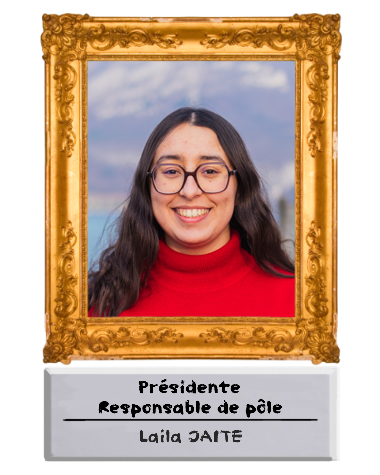
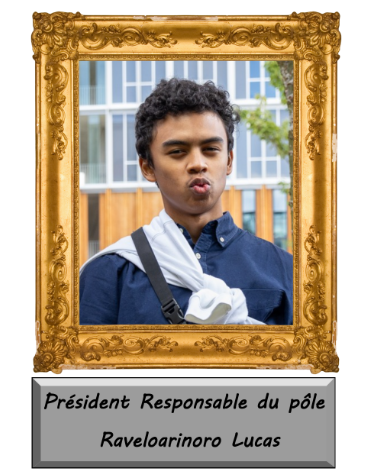
Carrousel update

diff --git a/informations.html b/informations.html
@@ -22,6 +22,7 @@
                 <div class="navlinks-container">
                     <a href="#" aria-current="page">L'association</a>
                     <a href="galerie.html">Galerie d'art</a>
+                    <a href="pixtober.html">Le Pix'Tober</a>
                     <a href="pixshot.html">Projet Pix'Shot</a>
                 </div>
                 <label for="check"> <img class="menu" src="img/menu.png" alt="menu"></label>
@@ -55,23 +56,24 @@
         </div>
 
         <div class ="wrapper">
-            <article class="intro"><h2>Membres du bureau 2023</h2>
+            <article class="intro"><h2>Membres du bureau 2025</h2>
                 <p style="margin: 25px 0px 25px 0px;">Puisque Pix'Art est un pôle intégré au Bureau des Arts, il ne possède pas de président à proprement parler. Le pôle est tout de même constitué d'une structure bien établie qui garantit la gestion efficace de Pix'Art :</p>
             </article>
             <img class ="bureau" src="img/bureau1.png" alt="Membres du bureau">
             <br>
             <img class ="bureau" src="img/bureau2.png" alt="Membres du bureau">
-            <img class ="bureau" src="img/bureau3.png" alt="Membres du bureau">
-            <img class ="bureau" src="img/bureau4.png" alt="Membres du bureau">
-            <img class ="bureau" src="img/bureau5.png" alt="Membres du bureau">
+            <a href="https://www.deviantart.com/amywolfhardt/art/Hornet-Silksong-865912068" target ='blank'>
+                <img class ="bureau" src="img/bureau3.png" alt="Membres du bureau">
+            </a>
         </div>
 
         <div class="wrapper">
             <article class="intro">
                 <h2>Les évènements de Pix'Art</h2>
                 <img style="margin: 20px 0px 10px 0px;" src="img/events/pixskribbl.png" width = "60%" height="60%" alt="PixSkribbl" >
-                <img style="margin: 20px 0px 10px 0px;" src="img/events/pixtober.png" width = "60%" height="60%" alt="PixTober" >
+                <img style="margin: 20px 0px 10px 0px;" src="img/Pixtober25.png" width = "60%" height="60%" alt="Pixtober" >
                 <img style="margin: 20px 0px 10px 0px;" src="img/events/pixglassing.png" width = "60%" height="60%" alt="PixGlassing" >
+                <img style="margin: 20px 0px 10px 0px;" src="img/events/eventail.jpg" width = "60%" height="60%" alt="Peinture sur éventail" >
             </article>
         </div>
 
@@ -88,7 +90,7 @@
             <a href="https://www.linkedin.com/company/pixart-ensea" target="_blank"><img class="imgrs" src="img/ln.png" alt="Linkedin logo"></a>
             <a href="mailto:pixart@ensea.fr" target ="_blank"><img class="imgrs" src="img/ct.png" alt="Contact logo"></a>
             <hr class="footer2">
-            <p class="footer2">Copyright © Pix'Art ENSEA 2023 | Ousmane THIONGANE | Tous droits réservés.</p>
+            <p class="footer2">Copyright © Pix'Art ENSEA 2025 | Ousmane THIONGANE | Tous droits réservés.</p>
         </footer>
 
     </body>

diff --git a/pixtober.html b/pixtober.html
@@ -22,25 +22,33 @@
                 <div class="navlinks-container">
                     <a href="informations.html" aria-current="page">L'association</a>
                     <a href="galerie.html">Galerie d'art</a>
+                    <a href="#">Le Pix'Tober</a>
                     <a href="pixshot.html">Projet Pix'Shot</a>
-                    <a href="pixtober.html">Le Pix'Tober</a>
                 </div>
                 <label for="check"> <img class="menu" src="img/menu.png" alt="menu"></label>
             </div>
         </nav>
-    
+
+        
         <img class="img-banner" src="img/banner.png" alt="Pix'Art banner">
         <img class="img-banner2" src="img/banner2.png" alt="Pix'Art mobile banner" width="100%" height="100%">
-
+    
+        
         <div class="wrapper">
             <article class="intro">
-                <h2 class="pixshottitle">Projet animation</h2>
-                <video width="80%" height="80%" controls>
-                    <source src="video/video.mp4" type="video/mp4">
-                  Your browser does not support the video tag.
-                </video>
+                <img style="margin: 20px 0px 10px 0px;" src="img/pixtober.png" width = "50%" height="50%" alt="Pixtober" >
+                <p>Le Pix'Tober est un défi artistique qui se déroule chaque année en octobre. Le principe est simple : chaque semaine sera reliée à un thème. Vous êtes tous invités à réaliser une œuvre en noir et blanc, physique ou numérique, en rapport avec le thème. C’est l’occasion idéale pour apprendre à dessiner, ou s’entraîner pour progresser !
+                
+                <p>
+                    Voici le thème du Pix'Tober 2025 :
+                    
+                </p>
+                <p><img src="img/Pixtober25.png" alt="Thème Pixtober 2025" width="75%" height="75%">
+                    <img src="img/Pixtober25en.png" alt="Thème Pixtober 2025 en anglais" width= "75%" height="75%"></p>
+                
+                <p>Partagez vos œuvres avec le hashtag #pixtober2025, ou envoyez les nous via nos réseaux ou en main propre pour que nous les partageons tout au long du mois. Que vous soyez un artiste confirmé ou un novice curieux, le Pix'Tober est une aventure artistique à ne pas manquer ! Rejoignez-nous et laissez libre cours à votre imagination !</p>
+            </article>
         </div>
-
 
         <footer class="footer">
             <a href="https://www.instagram.com/pixart.ensea/" target="_blank"><img class="imgrs" src="img/ig.png" alt="Instagram logo"></a>

diff --git a/galerie.html b/galerie.html
@@ -22,6 +22,7 @@
                 <div class="navlinks-container">
                     <a href="informations.html" aria-current="page">L'association</a>
                     <a href="#">Galerie d'art</a>
+                    <a href="pixtober.html">Le Pix'Tober</a>
                     <a href="pixshot.html">Projet Pix'Shot</a>
                 </div>
                 <label for="check"> <img class="menu" src="img/menu.png" alt="menu"></label>
@@ -35,9 +36,44 @@
             <article class="intro">
                 <h2 style="padding-bottom: 50px;">Galerie d'Art</h2>
                 <p style="padding-bottom: 40px;">Pix'Tip : Cliquez sur une œuvre pour la voir dans son intégralité !</p>
-                
-            </article>
+                <h2 style="padding-bottom: 40px;">Œuvres à la une</h2>
         </div>
+
+        <div class="carousel-container">
+            <div class="carousel-track">
+                <script>
+                    document.addEventListener("DOMContentLoaded", function () {
+
+                        const galleryItems = Array.from(document.querySelectorAll(".image-gallery li a img"));
+                        const carouselTrack = document.querySelector(".carousel-track");
+
+                        const shuffled = galleryItems.sort(() => 0.5 - Math.random());
+
+                        const half = Math.ceil(shuffled.length / 4);
+                        const selected = shuffled.slice(0, half);
+
+                        selected.forEach(img => {
+                            const newImg = document.createElement("img");
+                            newImg.src = img.src;
+                            newImg.alt = img.alt;
+                            newImg.classList.add("carousel-img");
+                            carouselTrack.appendChild(newImg);
+                        });
+
+                        let index = 0;
+                        function slide() {
+                            index++;
+                            if (index >= selected.length) index = 0;
+                            carouselTrack.style.transform = `translateX(-${index * 100}%)`;
+                        }
+
+                        setInterval(slide, 5000); 
+                    });
+                    </script>
+                </div>
+        </div>
+
+        </article>
 
         <div class="container">
   

diff --git a/pix.html b/pix.html
@@ -22,6 +22,7 @@
                 <div class="navlinks-container">
                     <a href="informations.html" aria-current="page">L'association</a>
                     <a href="galerie.html">Galerie d'art</a>
+                    <a href="pixtober.html">Le Pix'Tober</a>
                     <a href="pixshot.html">Projet Pix'Shot</a>
                 </div>
                 <label for="check"> <img class="menu" src="img/menu.png" alt="menu"></label>
@@ -78,7 +79,7 @@
             <a href="https://www.linkedin.com/company/pixart-ensea" target="_blank"><img class="imgrs" src="img/ln.png" alt="Linkedin logo"></a>
             <a href="mailto:pixart@ensea.fr" target ="_blank"><img class="imgrs" src="img/ct.png" alt="Contact logo"></a>
             <hr class="footer2">
-            <p class="footer2">Copyright © Pix'Art ENSEA 2023 | Ousmane THIONGANE | Tous droits réservés.</p>
+            <p class="footer2">Copyright © Pix'Art ENSEA 2025 | Ousmane THIONGANE | Tous droits réservés.</p>
         </footer>
 
     </body>

diff --git a/runningpix.html b/runningpix.html
@@ -22,6 +22,7 @@
                 <div class="navlinks-container">
                     <a href="informations.html" aria-current="page">L'association</a>
                     <a href="galerie.html">Galerie d'art</a>
+                    <a href="pixtober.html">Le Pix'Tober</a>
                     <a href="pixshot.html">Projet Pix'Shot</a>
                 </div>
                 <label for="check"> <img class="menu" src="img/menu.png" alt="menu"></label>
@@ -50,7 +51,7 @@
             <a href="https://www.linkedin.com/company/pixart-ensea" target="_blank"><img class="imgrs" src="img/ln.png" alt="Linkedin logo"></a>
             <a href="mailto:pixart@ensea.fr" target ="_blank"><img class="imgrs" src="img/ct.png" alt="Contact logo"></a>
             <hr class="footer2">
-            <p class="footer2">Copyright © Pix'Art ENSEA 2023 | Ousmane THIONGANE | Tous droits réservés.</p>
+            <p class="footer2">Copyright © Pix'Art ENSEA 2025 | Ousmane THIONGANE | Tous droits réservés.</p>
         </footer>
 
     </body>

diff --git a/story.html b/story.html
@@ -23,6 +23,7 @@
                     <a href="informations.html" aria-current="page">L'association</a>
                     <a href="galerie.html">Galerie d'art</a>
                     <a href="pixshot.html">Projet Pix'Shot</a>
+                    <a href="pixtober.html">Le Pix'Tober</a>
                 </div>
                 <label for="check"> <img class="menu" src="img/menu.png" alt="menu"></label>
             </div>
@@ -103,7 +104,7 @@
             <a href="https://www.linkedin.com/company/pixart-ensea" target="_blank"><img class="imgrs" src="img/ln.png" alt="Linkedin logo"></a>
             <a href="mailto:pixart@ensea.fr" target ="_blank"><img class="imgrs" src="img/ct.png" alt="Contact logo"></a>
             <hr class="footer2">
-            <p class="footer2">Copyright © Pix'Art ENSEA 2023 | Ousmane THIONGANE | Tous droits réservés.</p>
+            <p class="footer2">Copyright © Pix'Art ENSEA 2025 | Ousmane THIONGANE | Tous droits réservés.</p>
         </footer>
         
     </body>

diff --git a/pixshot.html b/pixshot.html
@@ -22,6 +22,7 @@
                 <div class="navlinks-container">
                     <a href="informations.html" aria-current="page">L'association</a>
                     <a href="galerie.html">Galerie d'art</a>
+                    <a href="pixtober.html">Le Pix'Tober</a>
                     <a href="#">Projet Pix'Shot</a>
                 </div>
                 <label for="check"> <img class="menu" src="img/menu.png" alt="menu"></label>
@@ -83,5 +84,5 @@
             <a href="https://www.linkedin.com/company/pixart-ensea" target="_blank"><img class="imgrs" src="img/ln.png" alt="Linkedin logo"></a>
             <a href="mailto:pixart@ensea.fr" target ="_blank"><img class="imgrs" src="img/ct.png" alt="Contact logo"></a>
             <hr class="footer2">
-            <p class="footer2">Copyright © Pix'Art ENSEA 2023 | Ousmane THIONGANE | Tous droits réservés.</p>
+            <p class="footer2">Copyright © Pix'Art ENSEA 2025 | Ousmane THIONGANE | Tous droits réservés.</p>
         </footer>

diff --git a/index.html b/index.html
@@ -23,6 +23,7 @@
         <div class="wrapper">
             <a href="informations.html" class="button">L'association</a>
             <a href="galerie.html" class="button">Galerie d'Art</a>
+            <a href="pixtober.html" class="button" style="margin-bottom: 60px;">Le Pix'Tober</a>
             <a href="pixshot.html" class="button" style="margin-bottom: 60px;">Projet Pix'Shot</a>
         </div>
 
@@ -32,7 +33,7 @@
             <a href="https://www.linkedin.com/company/pixart-ensea" target="_blank"><img class="imgrs" src="img/ln.png" alt="Linkedin logo"></a>
             <a href="mailto:pixart@ensea.fr" target ="_blank"><img class="imgrs" src="img/ct.png" alt="Contact logo"></a>
             <hr class="footer2">
-            <p class="footer2">Copyright © Pix'Art ENSEA 2023 | Ousmane THIONGANE | Tous droits réservés.</p>
+            <p class="footer2">Copyright © Pix'Art ENSEA 2025 | Ousmane THIONGANE | Tous droits réservés.</p>
         </footer>
         
     </body>

diff --git a/css/styles.css b/css/styles.css
@@ -299,6 +299,27 @@ nav{
     font-family: Arial, Helvetica, sans-serif;
 }
 
+.carousel-container {
+    width: 100%;
+    max-width: 600px;
+    margin: 0 auto 60px auto;
+    overflow: hidden;
+    border-radius: 12px;
+    position: relative;
+}
+
+.carousel-track {
+    display: flex;
+    transition: transform 0.7s ease-in-out;
+}
+
+.carousel-img {
+    width: 100%;
+    height: auto;
+    flex-shrink: 0;
+    object-fit: contain;
+    background-color: #1c1c1c;
+}
 
 
 @media (max-width: 820px){
